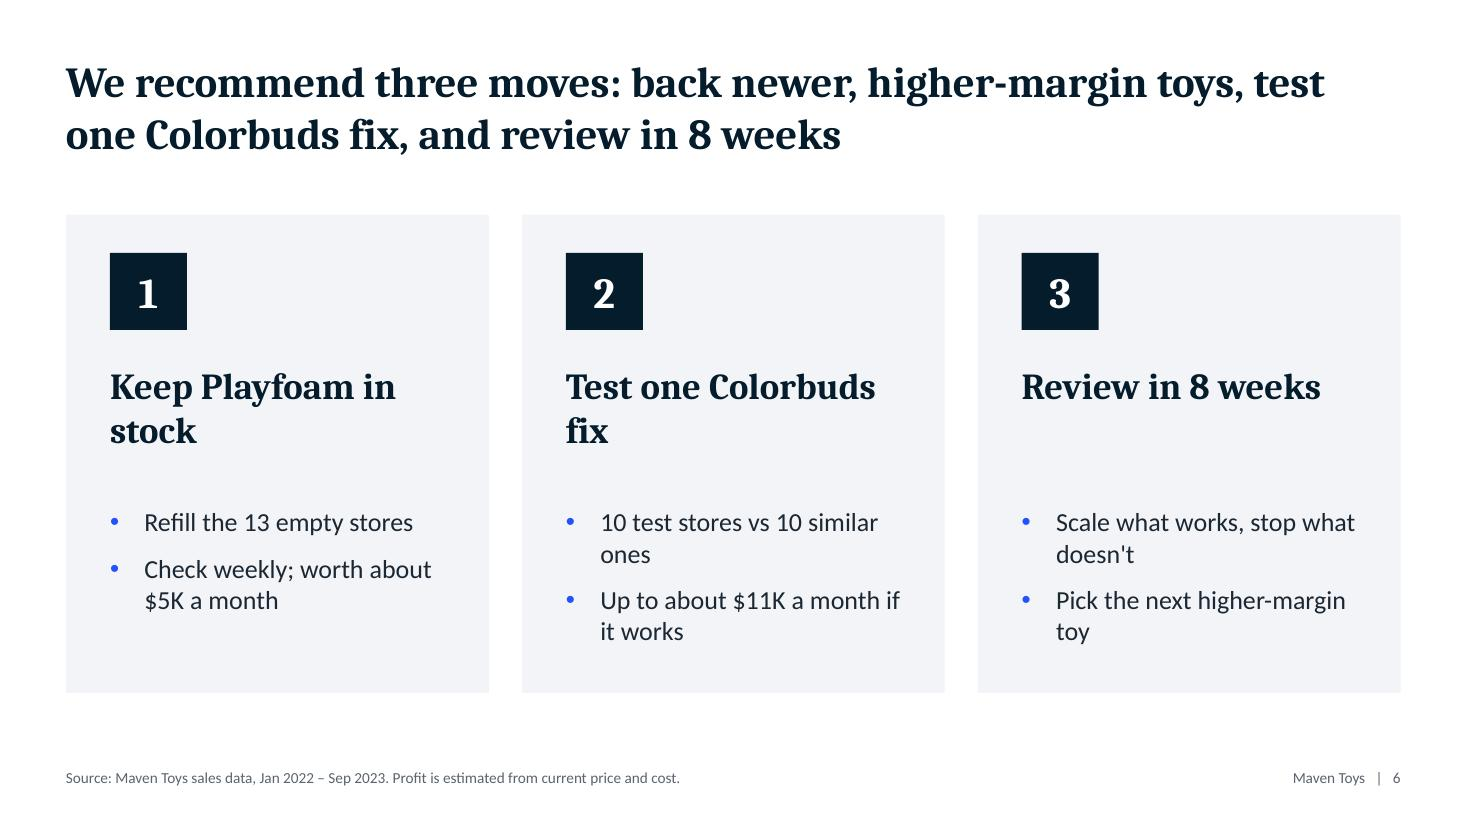
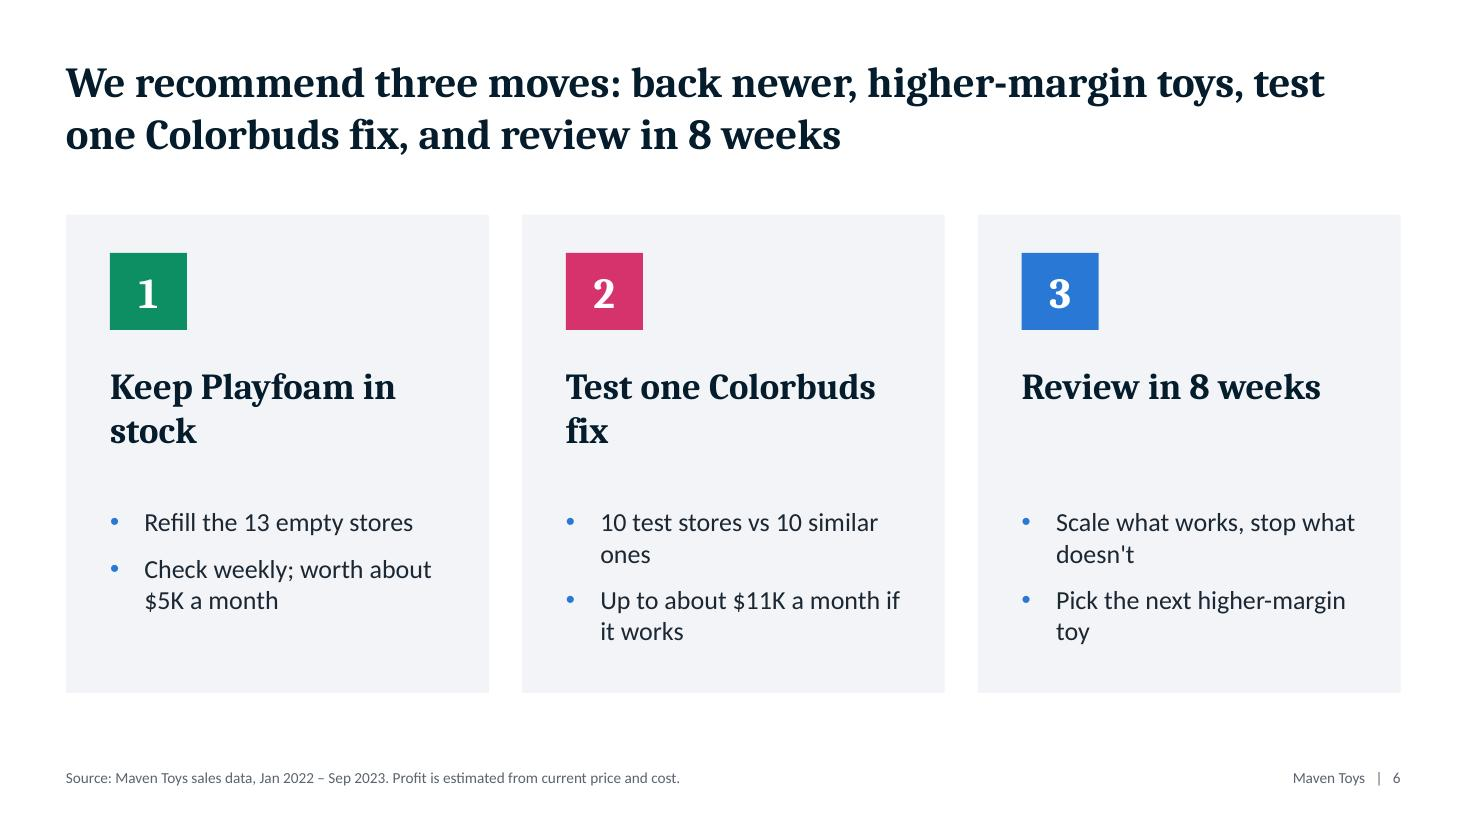
Deck: semantic toy colours (Colorbuds pink, Playfoam mint), colourful cover, site palette
Claude-Session: https://claude.ai/code/session_01J6v5JYXB5XucuZ66TGAjVJ

Changed region(s): [[0.0613, 0.303, 0.1534, 0.4242], [0.6748, 0.303, 0.7669, 0.4242], [0.3681, 0.303, 0.4601, 0.4242]]

diff --git a/scripts/build_deck.py b/scripts/build_deck.py
@@ -77,9 +77,11 @@ print("numbers verified:", dict(cb=(cb_first, cb_last, cb_drop), share=(share_22
       playfoam=(pf_aug, pf_sep, pf_margin, pf_month_profit_k, pf_zero), faded=(len(faded), len(launched))))
 
 # ----------------------------------------------------------------- style (restrained, consulting-style)
-NAVY, BLUE, CYAN = "051C2C", "2251FF", "00A9F4"
+NAVY, BLUE = "051C2C", "2A78D6"                      # same palette as the website
+PINK, MINT, ORANGE, YELLOW = "E8457B", "1BAF7A", "EB6834", "F2B400"
+PINK_T, MINT_T, ORANGE_T = "D6336C", "0E8F63", "D9531E"   # slightly darker, for text on white/gray
 INK, MUTED, LIGHT, MID = "1B2733", "5B6470", "F2F4F7", "D0D5DD"
-BAR_SOFT = "A9BCFF"
+BAR_SOFT = "A5E3CC"
 HEAD, BODY = "Cambria", "Calibri"
 rgb = lambda h: RGBColor.from_string(h)
 
@@ -182,24 +184,34 @@ def style_axis_text(axis, size=14, color=MUTED):
 s1 = prs.slides.add_slide(BLANK)
 s1.background.fill.solid()
 s1.background.fill.fore_color.rgb = rgb(NAVY)
-for k, c in enumerate((BLUE, CYAN, "FFFFFF")):
+for k, c in enumerate((PINK, YELLOW, MINT)):
     shape(s1, MSO_SHAPE.RECTANGLE, LM + k * 0.2, 0.62, 0.14, 0.14, c, f"Mark {k+1}")
 text(s1, "MAVEN TOYS", LM + 0.8, 0.52, 4, 0.34, 14, "FFFFFF", True, name="Wordmark", anchor=MSO_ANCHOR.MIDDLE)
-text(s1, "Colorbuds is fading: what to do next", LM, 2.55, 10.5, 1.9, 44, "FFFFFF", True, HEAD, anchor=MSO_ANCHOR.BOTTOM, name="Title")
+_rows = [[BLUE, ORANGE, PINK, YELLOW], [MINT, BLUE, ORANGE], [PINK, MINT], [YELLOW]]
+for r_i, row in enumerate(_rows):
+    for c_i, col in enumerate(row):
+        shape(s1, MSO_SHAPE.RECTANGLE, 8.55 + r_i * 0.5 + c_i * 1.0, 6.15 - r_i * 1.0, 0.9, 0.9, col, f"Block r{r_i}c{c_i}")
+_tb = text(s1, "Colorbuds is fading:", LM, 1.9, 7.6, 2.55, 44, "FFFFFF", True, HEAD, anchor=MSO_ANCHOR.BOTTOM, name="Title")
+_p = _tb.text_frame.paragraphs[0]
+_p.add_line_break()
+_r = _p.add_run()
+_r.text = "what to do next"
+_r.font.size, _r.font.bold, _r.font.name = Pt(44), True, HEAD
+_r.font.color.rgb = rgb("FFFFFF")
 text(s1, "Business review  |  Data through Sep 30, 2023", LM, 4.75, 10, 0.5, 20, "A9B8CC", name="Subtitle")
 notes(s1, "Open with the one-line answer: Colorbuds, our top profit toy, is fading. The plan is simple: back newer, "
           "higher-margin toys, test one cheap fix for Colorbuds, and review in 8 weeks. Keep the intro under 20 seconds.")
 
 # ================================================================= slide 2: the answer
 s2 = content_slide("Our top profit toy is fading, and a newer toy is already making up part of the gap", 2)
-for i, (big, lab, cap, bx) in enumerate([
-    (f"{share_22}% → {share_23}%", "Colorbuds' share of quarterly profit", "Q3 2022 to Q3 2023", LM),
-    (f"${pf_month_profit_k}K", "Playfoam profit per month", "At its September pace", LM + CW / 2 + 0.2),
+for i, (big, lab, cap, bx, bcol) in enumerate([
+    (f"{share_22}% → {share_23}%", "Colorbuds' share of quarterly profit", "Q3 2022 to Q3 2023", LM, PINK_T),
+    (f"${pf_month_profit_k}K", "Playfoam profit per month", "At its September pace", LM + CW / 2 + 0.2, MINT_T),
 ]):
     w = CW / 2 - 0.2
     shape(s2, MSO_SHAPE.RECTANGLE, bx, 1.85, w, 2.75, LIGHT, f"Panel {i+1}")
     label(s2, lab, bx + 0.4, 2.1, w - 0.8, f"Panel label {i+1}")
-    text(s2, big, bx + 0.4, 2.55, w - 0.8, 1.2, 56, BLUE, True, HEAD, anchor=MSO_ANCHOR.MIDDLE, name=f"Big number {i+1}")
+    text(s2, big, bx + 0.4, 2.55, w - 0.8, 1.2, 56, bcol, True, HEAD, anchor=MSO_ANCHOR.MIDDLE, name=f"Big number {i+1}")
     text(s2, cap, bx + 0.4, 3.95, w - 0.8, 0.4, 16, MUTED, name=f"Caption {i+1}")
 bullets(s2, [f"Colorbuds is still our #1 profit toy, but its share has more than halved",
              f"Playfoam launched in mid-August and is already a top-{pf_rank} profit toy",
@@ -244,7 +256,7 @@ bp.set('rot', '0')
 bp.set('vert', 'horz')
 ser = ch.plots[0].series[0]
 ser.smooth = False
-ser.format.line.color.rgb = rgb(NAVY)
+ser.format.line.color.rgb = rgb(PINK)
 ser.format.line.width = Pt(3.5)
 from pptx.enum.chart import XL_MARKER_STYLE
 ser.marker.style = XL_MARKER_STYLE.NONE
@@ -254,7 +266,7 @@ for idx, lbl, when, pos in ((0, f"{cb_first:,}", "Jan 2022", XL_LABEL_POSITION.A
     pt.marker.style = XL_MARKER_STYLE.CIRCLE
     pt.marker.size = 11
     pt.marker.format.fill.solid()
-    pt.marker.format.fill.fore_color.rgb = rgb(BLUE)
+    pt.marker.format.fill.fore_color.rgb = rgb(PINK)
     pt.marker.format.line.color.rgb = rgb("FFFFFF")
     dl = pt.data_label
     dl.has_text_frame = True
@@ -262,7 +274,7 @@ for idx, lbl, when, pos in ((0, f"{cb_first:,}", "Jan 2022", XL_LABEL_POSITION.A
     dl.position = pos
     r = dl.text_frame.paragraphs[0].runs[0]
     r.font.size, r.font.bold, r.font.name = Pt(22), True, HEAD
-    r.font.color.rgb = rgb(BLUE)
+    r.font.color.rgb = rgb(PINK_T)
     p2 = dl.text_frame.add_paragraph()
     r2 = p2.add_run()
     r2.text = when
@@ -282,11 +294,11 @@ notes(s3, f"Monthly Colorbuds units fell from {cb_first:,} (Jan 2022) to {cb_las
 # ================================================================= slide 4: most toys fade
 s4 = content_slide(f"Fading is normal for our toys: {len(faded)} of {len(launched)} recent launches are 40%+ below their peak", 4)
 shape(s4, MSO_SHAPE.RECTANGLE, LM, 1.85, 6.4, 4.9, LIGHT, "Stat panel")
-text(s4, f"{len(faded)} of {len(launched)}", LM + 0.4, 2.15, 5.6, 1.7, 88, BLUE, True, HEAD, anchor=MSO_ANCHOR.MIDDLE, name="Big number")
+text(s4, f"{len(faded)} of {len(launched)}", LM + 0.4, 2.15, 5.6, 1.7, 88, ORANGE_T, True, HEAD, anchor=MSO_ANCHOR.MIDDLE, name="Big number")
 text(s4, "recent launches are 40%+ below their peak month", LM + 0.4, 3.95, 5.6, 0.9, 22, NAVY, name="Caption")
 for i in range(len(launched)):
     bx = LM + 0.4 + i * 0.54
-    c = NAVY if i < len(faded) else MID
+    c = ORANGE if i < len(faded) else MID
     shape(s4, MSO_SHAPE.RECTANGLE, bx, 5.45, 0.42, 0.42, c, f"Toy marker {i+1}")
 label(s4, "Examples", 7.4, 1.95, 5, "Examples label")
 bullets(s4, [f"Jenga peaked in Jul 2022 and is now down {jenga_drop}%",
@@ -328,14 +340,14 @@ dls.font.size, dls.font.bold, dls.font.name = Pt(26), True, HEAD
 dls.font.color.rgb = rgb(NAVY)
 ser = plot.series[0]
 ser.format.fill.solid()
-ser.format.fill.fore_color.rgb = rgb(BLUE)
+ser.format.fill.fore_color.rgb = rgb(MINT)
 pt0 = ser.points[0]
 pt0.format.fill.solid()
 pt0.format.fill.fore_color.rgb = rgb(BAR_SOFT)   # lighter = partial month
 for i, (big, small, by) in enumerate([(f"{pf_margin}% margin", f"${pf_unit_profit:.0f} profit on every unit", 1.85),
                                       (f"{pf_zero} stores out of stock", "about $5K a month left on the table", 3.45)]):
     shape(s5, MSO_SHAPE.RECTANGLE, 7.5, by, 13.333 - LM - 7.5, 1.4, LIGHT, f"Stat panel {i+1}")
-    text(s5, big, 7.8, by + 0.2, 4.7, 0.6, 26, BLUE, True, HEAD, anchor=MSO_ANCHOR.MIDDLE, name=f"Stat title {i+1}")
+    text(s5, big, 7.8, by + 0.2, 4.7, 0.6, 26, MINT_T if i == 0 else ORANGE_T, True, HEAD, anchor=MSO_ANCHOR.MIDDLE, name=f"Stat title {i+1}")
     text(s5, small, 7.8, by + 0.88, 4.7, 0.4, 16, INK, name=f"Stat note {i+1}")
 bullets(s5, [f"Launched Aug 17 and already a top-{pf_rank} profit toy",
              "New toys often cool off, so the window to act is short"],
@@ -355,7 +367,7 @@ colw = (CW - 2 * 0.3) / 3
 for i, (num, head, pts) in enumerate(steps):
     cx = LM + i * (colw + 0.3)
     shape(s6, MSO_SHAPE.RECTANGLE, cx, 1.95, colw, 4.35, LIGHT, f"Panel {num}")
-    badge = shape(s6, MSO_SHAPE.RECTANGLE, cx + 0.4, 2.3, 0.7, 0.7, NAVY, f"Number {num}")
+    badge = shape(s6, MSO_SHAPE.RECTANGLE, cx + 0.4, 2.3, 0.7, 0.7, (MINT_T, PINK_T, BLUE)[i], f"Number {num}")
     tf = badge.text_frame
     tf.margin_left = tf.margin_right = tf.margin_top = tf.margin_bottom = 0
     tf.vertical_anchor = MSO_ANCHOR.MIDDLE

diff --git a/evaluations/iteration_log.md b/evaluations/iteration_log.md
@@ -12,6 +12,7 @@ Record what actually happens. Do not pre-write findings.
 | 6 | 2026-10-19 | Toy images | Wanted Amazon-catalog-quality images. Sandbox blocks image sites; copying retail photos is a copyright risk | Chose original illustrations. Claude drew 5 samples, then all 35 as vector art; user approved the style after seeing samples | Illustration overflowed its tile (CSS percent-height bug); Jenga tower clipped; basketball net invisible on white | Fixed each after viewing rendered output | | | 0 |
 | 7 | 2026-10-19 | Deck | Asked Claude for a tight 6-slide, toy-store-branded deck on the Colorbuds finding. pptxgenjs was unavailable and npm blocked, so it was built with python-pptx | 6 slides, native charts, speaker notes; every number asserted against independent pandas results | Wrapping big numbers, crowded chart axis labels, badge text collisions, clipped axis label (found by rendering slides to images) | Fixed each, re-rendered | | | 0 |
 | 8 | 2026-10-19 | Deck restyle | Asked for a more professional, consulting-style look with no data changes | Navy/blue palette, serif action titles, square panels, no shadows, quieter brand mark; same numbers (assertions unchanged) | Axis labels wrapped (two attempts to fix; first edit silently didn't apply because the file had a different character than I searched for) | Verified by re-rendering; used short year labels | | | 0 |
+| 9 | 2026-10-19 | Deck color | Asked for toy-brand color while staying professional; chose semantic color + per-toy color + colorful cover | Colorbuds = pink, Playfoam = mint, warnings orange, badges in toy colors; site palette reused; text-safe darker shades | Cover title collided with the block cluster (found in render) | Narrowed title and forced a line break | | | 0 |
 
 ## Timers to keep (the user fills these in)
 - Time to first functional prototype:
